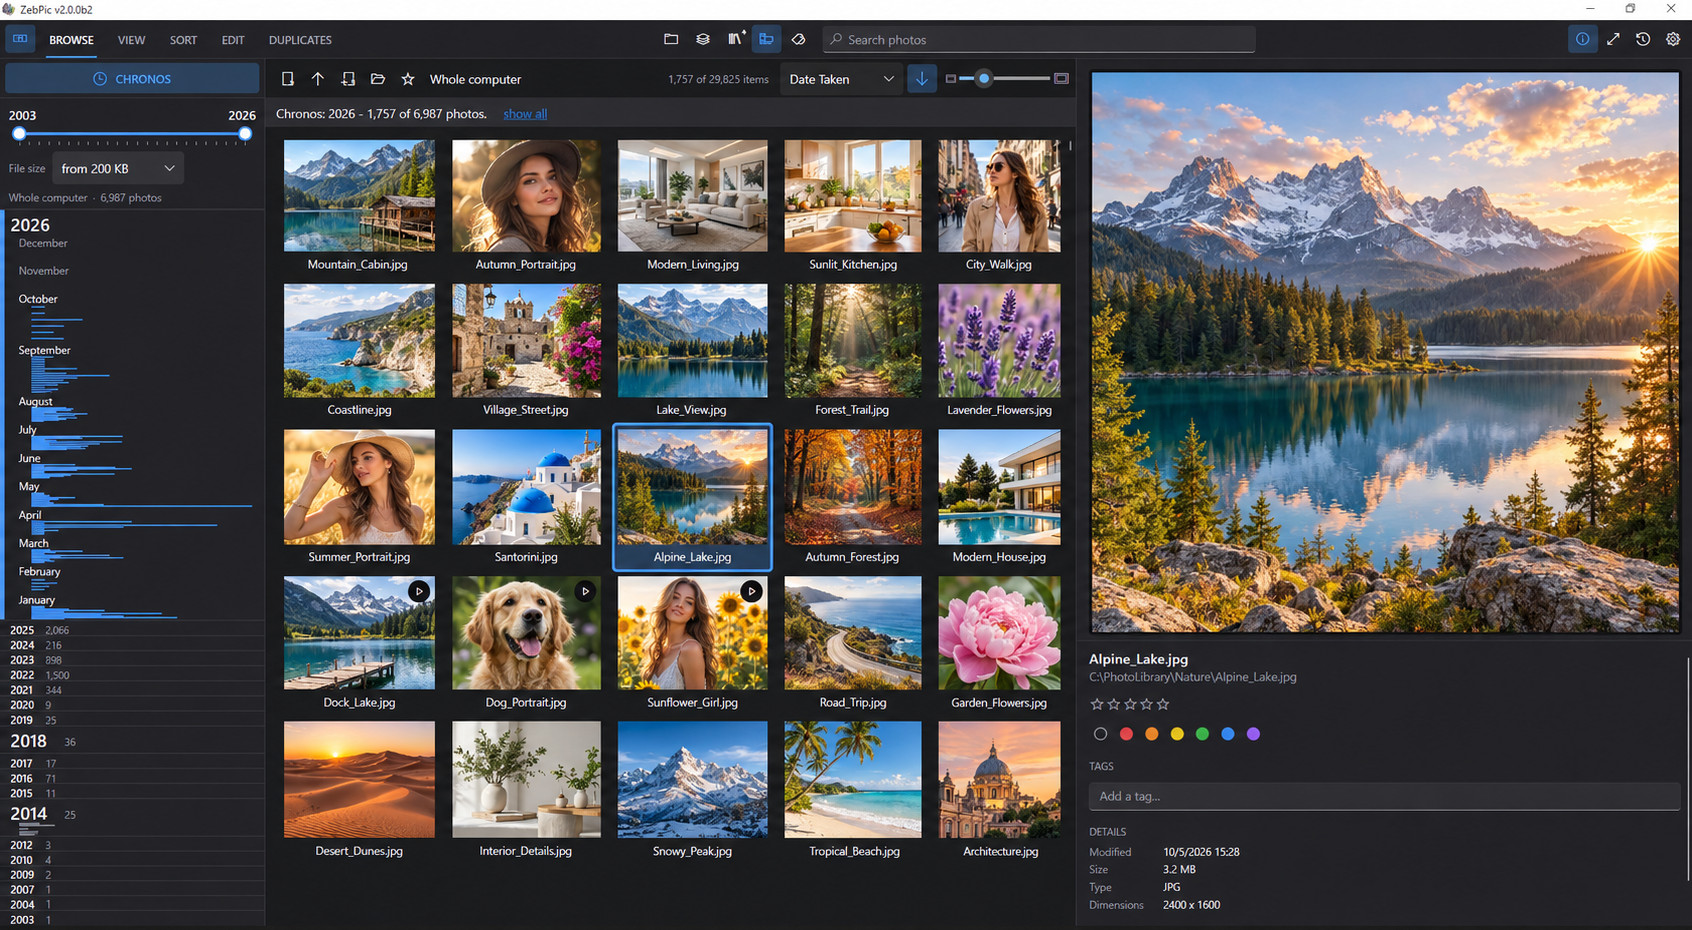
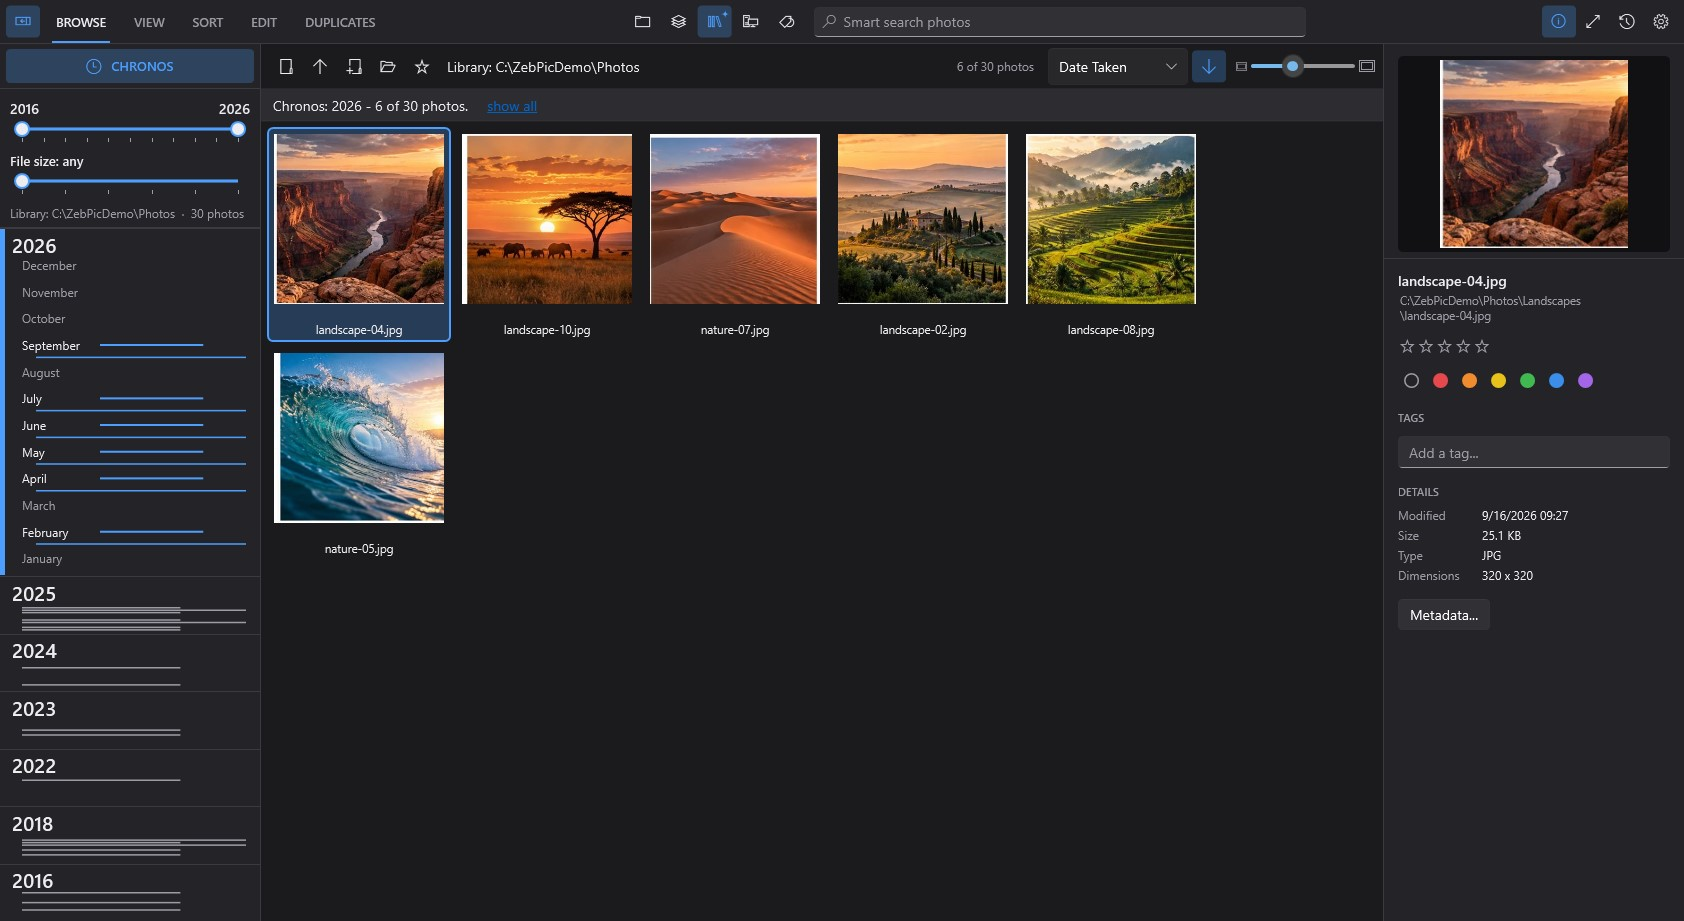
v2.0.0 scr

diff --git a/docs/DEMO-IMAGES.md b/docs/DEMO-IMAGES.md
@@ -1,0 +1,16 @@
+# Pictures in the screenshots
+
+The photos and portraits visible in the screenshots of this repository are:
+
+**ZebPicDemo - AI-generated demo image assets, CC BY 4.0.**
+License: https://creativecommons.org/licenses/by/4.0/ (legal code: https://creativecommons.org/licenses/by/4.0/legalcode)
+
+The 60 images were generated with an OpenAI image-generation service on October 18, 2026 for ZebPic mockups and
+screenshots. The prompts excluded celebrities, recognizable public figures, trademarks, logos, watermarks, embedded text
+and copies of known artworks; all people shown are fictional.
+
+Changes: the images appear reduced inside the window of ZebPic; the round portraits, made with a transparent corner,
+are shown on a light background; the dates of the files were set to different years to show Chronos.
+
+No endorsement or warranty is given. The license covers only rights, if any, that can be licensed; it does not grant
+trademark, patent, privacy, publicity or personality rights.

diff --git a/README.md b/README.md
@@ -100,3 +100,5 @@ For an error, Settings > About > Report a Problem saves a report file you can at
 ---
 
 Developed by Home Soft Lab.
+
+Pictures in the screenshots: ZebPicDemo - AI-generated demo image assets, [CC BY 4.0](https://creativecommons.org/licenses/by/4.0/); shown reduced in the program window. Details: [docs/DEMO-IMAGES.md](docs/DEMO-IMAGES.md).
